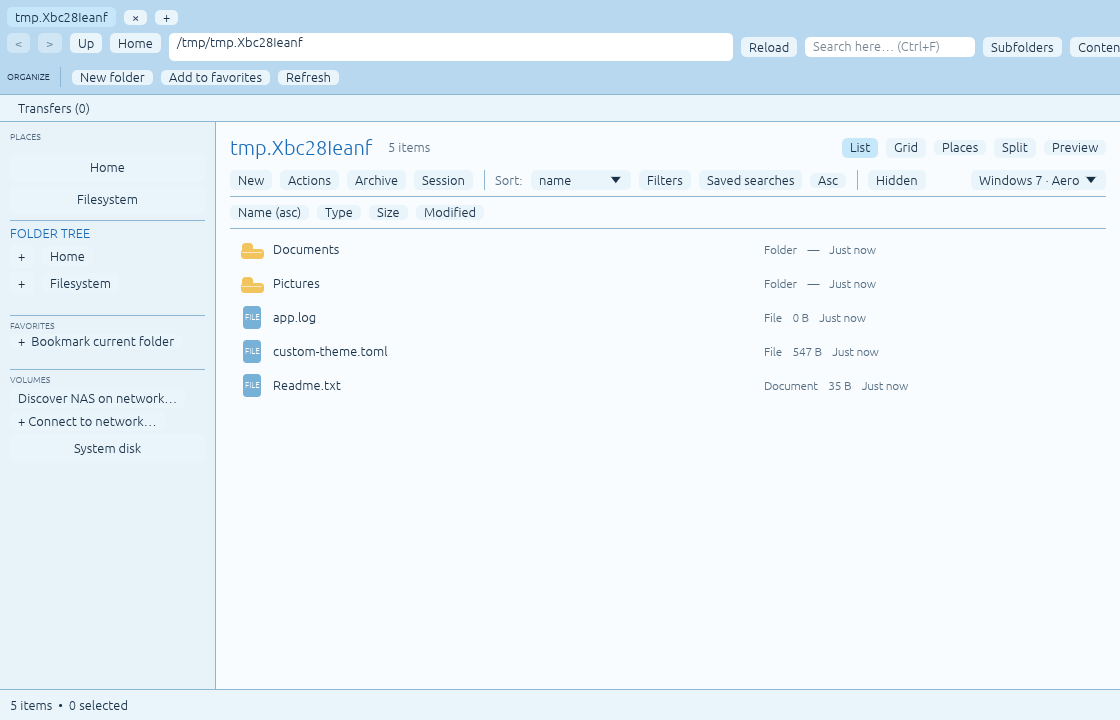
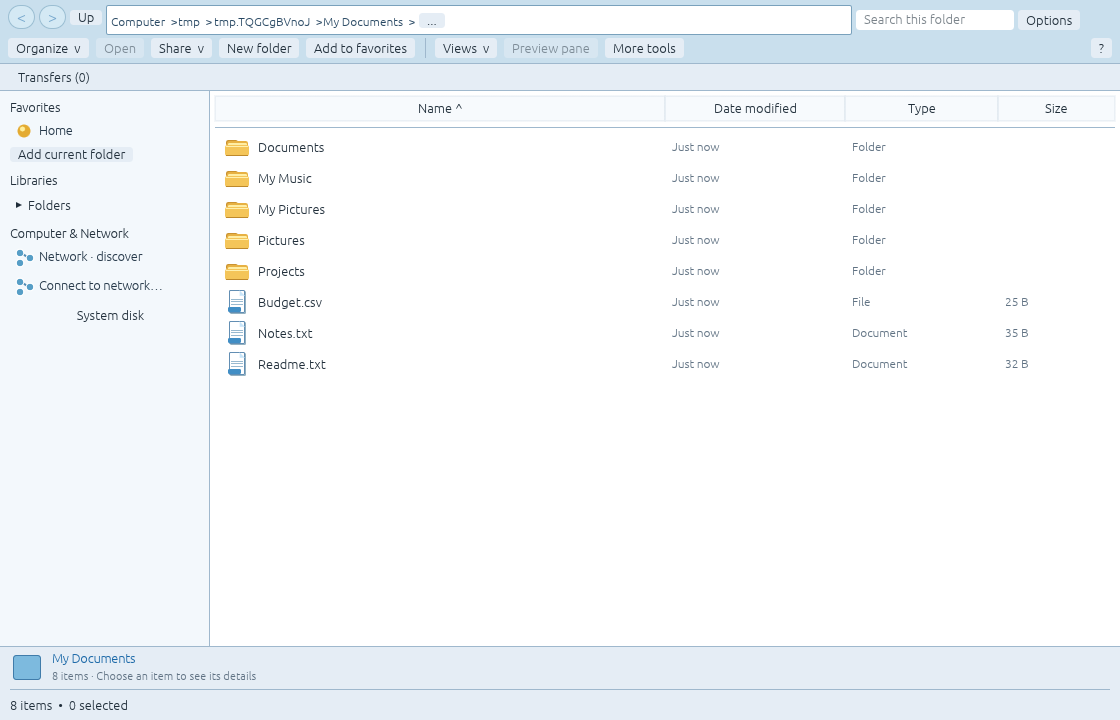
docs(win7): publish verified Aero screenshot gallery in README

diff --git a/README.md b/README.md
@@ -12,9 +12,11 @@ A customizable Linux file manager built with **Rust + egui**, designed to work o
 
 </div>
 
-![RiceField with its XP Luna-inspired file-manager shell](docs/screenshots/xp-luna.png)
+![RiceField with its Windows 7 Aero-inspired file-manager shell](docs/screenshots/win7.png)
 
-**XP Luna rice:** [full window](docs/screenshots/xp-luna.png) · [split view](docs/screenshots/xp-luna-split.png) · [compact](docs/screenshots/xp-luna-compact.png) · [narrow](docs/screenshots/xp-luna-narrow.png) · [all screenshots](docs/screenshots/)
+**Windows 7 · Aero:** [full window](docs/screenshots/win7.png) · [split view](docs/screenshots/win7-split.png) · [compact](docs/screenshots/win7-compact.png) · [narrow](docs/screenshots/win7-narrow.png)
+
+**XP Luna:** [full window](docs/screenshots/xp-luna.png) · [split view](docs/screenshots/xp-luna-split.png) · [more real GUI screenshots](docs/screenshots/)
 
 > **Status: 1.0.0-rc.17 candidate.** Not a signed-off stable 1.0. Network-write safety, complete recovery and physical Linux Mint/NAS/USB acceptance remain open. Keep your current file manager and use disposable data for testing risky operations.
 

diff --git a/docs/screenshots/README.md b/docs/screenshots/README.md
@@ -2,6 +2,16 @@
 
 These are unedited screenshots captured from the **running Rust/egui application** in GitHub Actions' Xvfb GUI smoke test. The fixtures contain disposable example files; the images are not renders or concept mockups. They verify rendering, not usability on a physical Linux desktop.
 
+## Windows 7 · Aero rice
+
+![Windows 7-inspired Explorer shell at 1120 × 720](win7.png)
+
+| Additional view | Screenshot |
+| --- | --- |
+| Two-folder split (1120 × 720) | [win7-split.png](win7-split.png) |
+| Compact window (700 × 470) | [win7-compact.png](win7-compact.png) |
+| Narrow window (380 × 650) | [win7-narrow.png](win7-narrow.png) |
+
 ## XP Luna rice
 
 ![XP Luna file manager with the classic task pane](xp-luna.png)
@@ -15,7 +25,6 @@ These are unedited screenshots captured from the **running Rust/egui application
 
 ## Other shells
 
-- [Windows 7-inspired](win7.png)
 - [Windows 98-inspired](win98.png)
 - [macOS-inspired](macos.png)
 

diff --git a/ROADMAP.md b/ROADMAP.md
@@ -17,7 +17,7 @@ performance, Linux integration, then visual polish.
   actions, Favorites, Libraries, Computer/network sidebar and bottom details.
 - [x] Native sortable Name/Date modified/Type/Size columns and original
   layered vector icons; preserve all core file operations and custom TOML.
-- [ ] Inspect actual Xvfb screenshots for full/compact/narrow/split layouts,
+- [x] Inspect actual Xvfb screenshots for full/compact/narrow/split layouts,
   then update `docs/screenshots/win7*.png` from a successful GUI smoke run.
 - [ ] Check icon proportions, typography, focus states, scrolling, search,
   selection and native window-decoration integration on Linux Mint in person.

diff --git a/CHANGELOG.md b/CHANGELOG.md
@@ -14,6 +14,8 @@
 - Preserve TOML recomposition of the Aero shell and custom sidebar append
   compatibility; test real clickable breadcrumb destinations and default
   section ordering. Visual acceptance on physical Linux remains pending.
+- Refresh the README hero and screenshot gallery with unedited Windows 7 Aero
+  GUI smoke captures (full window, split view, compact and narrow layouts).
 
 ## 1.0.0-rc.17 — atomic desktop icon upgrades and bounded release setup (verification pending)
 
